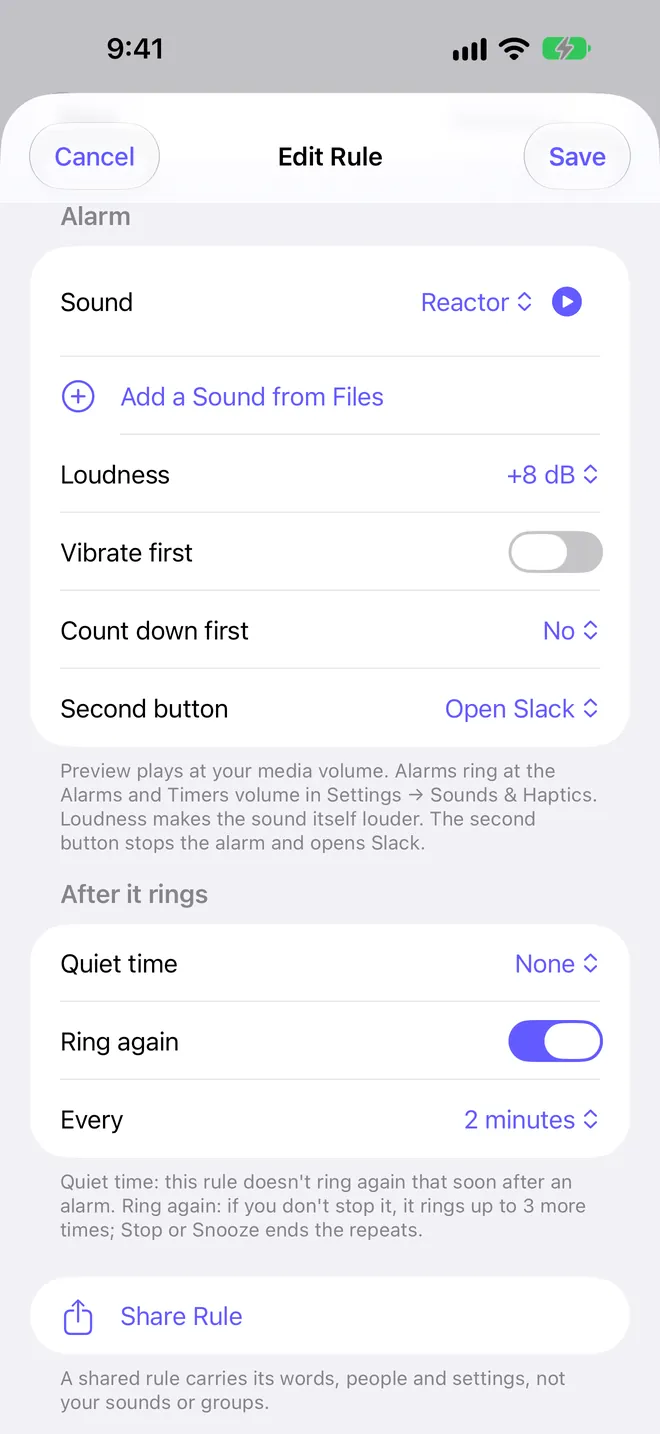
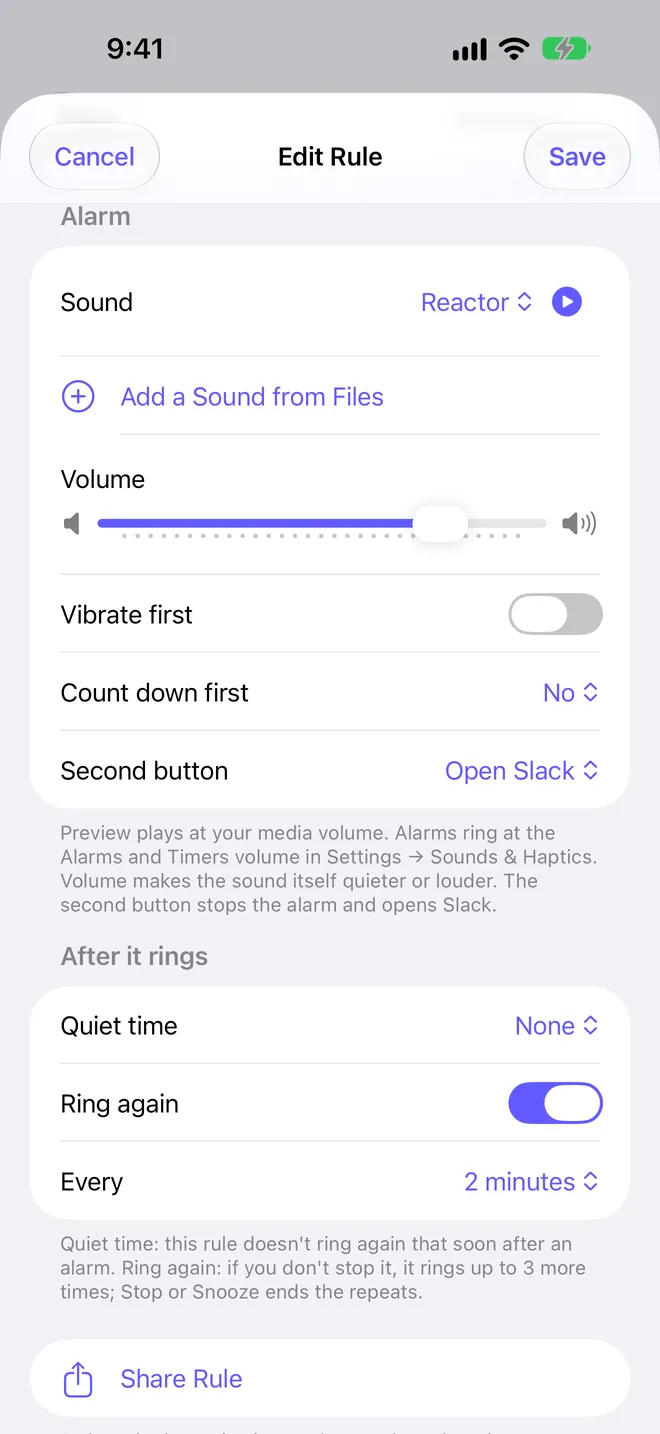
Volume bar in place of the loudness levels
Help, the home page and the rule page: each rule's sound has a Volume bar,
quieter or louder; shared rules say "6 dB louder" or "4 dB quieter", and links
from RingMeFor 1.0.1 still read. New rule alarm and Pro screenshots.

Claude-Session: https://claude.ai/code/session_014NKZs675oedrtAJAJBA9sZ

diff --git a/help.html b/help.html
@@ -127,11 +127,11 @@
     <li><strong>Never ring if it mentions:</strong> words that keep the rule quiet, like “resolved” or “test”.</li>
     <li><strong>Repeats:</strong> <strong>Only when it comes again</strong> rings only when the rule matches 2 to 10 times within the time you choose, like iOS's Repeated Calls. With <strong>From the same person</strong>, each person counts separately.</li>
     <li><strong>When</strong> (RingMeFor Pro): <strong>Only at certain times and days</strong>, such as weeknights from 22:00 to 07:00. Times follow your iPhone's clock and time zone.</li>
-    <li><strong>Alarm:</strong> the sound and <strong>Loudness</strong> (RingMeFor Pro), then three choices in every version. <strong>Vibrate first</strong> makes the alarm vibrate without a sound, then ring with its sound a minute later. <strong>Count down first</strong> waits 5, 10, 15 or 30 seconds, with a countdown and <strong>Cancel</strong> on the Lock Screen and in the Dynamic Island, so you can stop it before it rings. <strong>Second button</strong> is <strong>Snooze</strong>, or a button that stops the alarm and opens the app the message came from (or RingMeFor, for apps it can't open).</li>
+    <li><strong>Alarm:</strong> the sound and its <strong>Volume</strong> (RingMeFor Pro), then three choices in every version. <strong>Vibrate first</strong> makes the alarm vibrate without a sound, then ring with its sound a minute later. <strong>Count down first</strong> waits 5, 10, 15 or 30 seconds, with a countdown and <strong>Cancel</strong> on the Lock Screen and in the Dynamic Island, so you can stop it before it rings. <strong>Second button</strong> is <strong>Snooze</strong>, or a button that stops the alarm and opens the app the message came from (or RingMeFor, for apps it can't open).</li>
     <li><strong>After it rings:</strong> <strong>Quiet time</strong> keeps the rule from ringing again for 1, 5, 15 or 30 minutes. <strong>Ring again</strong> (RingMeFor Pro) rings up to 3 more times, every 1, 2 or 5 minutes, until you stop it.</li>
   </ul>
       <p>To check a rule, open the app's <strong>Why Didn't It Ring?</strong> and type a message under <strong>Check a message</strong>: nothing is sent or saved. To pause one rule, touch and hold it in the app's list of rules and pick how long, or <strong>Pause until a Time…</strong> to pick the date and time. <strong>Share Rule</strong>, at the bottom of an app's saved rule, makes a link to it: the link carries its words, people and settings, not your sounds or groups, and opens in RingMeFor, or on this website for someone who doesn't have it yet.</p>
-<p><strong>Sounds</strong> (RingMeFor Pro): 14 alarm sounds, <strong>Vibrate only</strong>, and sounds of your own: tap <strong>Add a Sound from Files</strong> in a rule. RingMeFor keeps the first 30 seconds, made as loud as it can be without distorting. <strong>Settings → Your Sounds</strong> plays, renames and deletes them. <strong>Loudness</strong> (+4 dB, +8 dB or +12 dB, for every sound but Standard alarm) makes the sound itself louder; the alarm still rings at the Alarms and Timers volume in <strong>Settings → Sounds &amp; Haptics</strong>. The free version rings with RingMeFor, the app's own sound.</p>
+<p><strong>Sounds</strong> (RingMeFor Pro): 14 alarm sounds, <strong>Vibrate only</strong>, and sounds of your own: tap <strong>Add a Sound from Files</strong> in a rule. RingMeFor keeps the first 30 seconds, made as loud as it can be without distorting. <strong>Settings → Your Sounds</strong> plays, renames and deletes them. <strong>Volume</strong>, a bar under the sound (for every sound but Standard alarm), makes the sound itself quieter or louder; the alarm still rings at the Alarms and Timers volume in <strong>Settings → Sounds &amp; Haptics</strong>. The free version rings with RingMeFor, the app's own sound.</p>
 <p><strong>Calendar:</strong> on Calendar's page, <strong>Use Event Details</strong> adds the event's location, notes and invitees to its alerts, read from Calendar when an alert arrives, so a rule can ring for meetings with certain people. It asks for full access to your calendars.</p>
     </section>
 
@@ -140,7 +140,7 @@
       <p>With RingMeFor Pro, a group puts apps together under a name and a colour, with rules that check every app in it: one “My manager” rule for Slack, Teams and Outlook, say. On the Home screen, tap <strong>New Group</strong> (it shows once you have two apps), name it, then pick its apps and add its rules. To put an app in a group from its own page, tap <strong>Add to a Group</strong>. An app is in one group at most; picking it for another group moves it.</p>
       <ul class="plain-list">
     <li><strong>Each app keeps its own rules.</strong> A notification from an app in a group is checked against the app's rules and the group's, and any of them can ring. Nothing in the group stops one of the app's own rules, or the other way round.</li>
-    <li><strong>One alarm, from the rule that rings hardest.</strong> When several rules match one notification, one alarm rings, with the settings of the strongest: Ring again counts most, then a sound or loudness of its own, then words or people over every notification. On a tie, the app's own rule wins.</li>
+    <li><strong>One alarm, from the rule that rings hardest.</strong> When several rules match one notification, one alarm rings, with the settings of the strongest: Ring again counts most, then a sound or volume of its own, then words or people over every notification. On a tie, the app's own rule wins.</li>
     <li><strong>A group rule counts across the group.</strong> Its quiet time and “only when it comes again” count matches from all the group's apps, and it rings one alarm at a time: the same outage posted in Slack and in Teams rings once.</li>
     <li><strong>The colour</strong> shows on the Home screen, in History and on the group's alarms on the Lock Screen and in the Dynamic Island. Tap the group's name on the Home screen to change its name, colour, apps or rules.</li>
     <li><strong>History</strong> names the group rule that rang, such as “Slack · Work: Outages”.</li>
@@ -191,7 +191,7 @@
     <li>Every app, with unlimited rules for each</li>
     <li>Times and days for a rule</li>
     <li>Ring again, until you stop it</li>
-    <li>14 alarm sounds and Vibrate only, sounds of your own, and Loudness</li>
+    <li>14 alarm sounds and Vibrate only, sounds of your own, and a Volume bar for each</li>
     <li>Groups, with rules for all their apps and a colour</li>
     <li>1,000 entries in History, instead of 300</li>
     <li>The Ring Alarm action, for shortcuts of your own</li>

diff --git a/index.html b/index.html
@@ -105,8 +105,8 @@
           <figure class="phone tour-mini"><div class="phone-edge"><div class="phone-glass"><div class="phone-screen"><img src="images/app/rule.webp" width="660" height="1434" alt="A rule called On call that rings for certain words, outage, P1, unreachable and @channel, or for messages from Nadia Brooks." loading="lazy" decoding="async"></div><span class="phone-island" aria-hidden="true"></span></div></div></figure>
         </li>
         <li>
-          <button class="tour-item" type="button" aria-pressed="false" data-shot="2"><span class="tour-ask">Choose how it rings.&nbsp;<span class="mark">Pro</span></span><span class="tour-more">A sound for each rule, Loudness, a countdown, a second button that opens the app, and ringing again if you sleep through it.</span><span class="tour-time" aria-hidden="true"></span></button>
-          <figure class="phone tour-mini"><div class="phone-edge"><div class="phone-glass"><div class="phone-screen"><img src="images/app/rule-alarm.webp" width="660" height="1434" alt="The rule's alarm settings: the Reactor sound, 8 dB louder, a second button that opens Slack, and Ring again every 2 minutes." loading="lazy" decoding="async"></div><span class="phone-island" aria-hidden="true"></span></div></div></figure>
+          <button class="tour-item" type="button" aria-pressed="false" data-shot="2"><span class="tour-ask">Choose how it rings.&nbsp;<span class="mark">Pro</span></span><span class="tour-more">A sound and volume for each rule, a countdown, a second button that opens the app, and ringing again if you sleep through it.</span><span class="tour-time" aria-hidden="true"></span></button>
+          <figure class="phone tour-mini"><div class="phone-edge"><div class="phone-glass"><div class="phone-screen"><img src="images/app/rule-alarm.webp" width="660" height="1434" alt="The rule's alarm settings: the Reactor sound, its Volume bar set a little louder, a second button that opens Slack, and Ring again every 2 minutes." loading="lazy" decoding="async"></div><span class="phone-island" aria-hidden="true"></span></div></div></figure>
         </li>
         <li>
           <button class="tour-item" type="button" aria-pressed="false" data-shot="3"><span class="tour-ask">A real alarm, even on Silent.</span><span class="tour-more">It rings like the Clock app's alarms, through Silent mode and Focus, with Snooze and slide to stop.</span><span class="tour-time" aria-hidden="true"></span></button>
@@ -118,7 +118,7 @@
         </li>
       </ol>
       </div>
-      <figure class="phone tour-phone"><div class="phone-edge"><div class="phone-glass"><div class="phone-screen"><img class="is-on" src="images/app/home.webp" width="660" height="1434" alt="RingMeFor's Home screen: On, a Work group with Slack, Microsoft Teams and Outlook, each connected and showing what it last rang for, then Gmail and Calendar." decoding="async"><img src="images/app/rule.webp" width="660" height="1434" alt="A rule called On call that rings for certain words, outage, P1, unreachable and @channel, or for messages from Nadia Brooks." loading="lazy" decoding="async"><img src="images/app/rule-alarm.webp" width="660" height="1434" alt="The rule's alarm settings: the Reactor sound, 8 dB louder, a second button that opens Slack, and Ring again every 2 minutes." loading="lazy" decoding="async"><img data-island="off" src="images/app/alarm-0648.webp" width="660" height="1434" alt="The alarm on the Lock Screen at 6:48: Slack, #on-call: Database unreachable, with Snooze and slide to stop." loading="lazy" decoding="async"><img src="images/app/history.webp" width="660" height="1434" alt="History: this week, 5 alarms from 1,748 notifications. Microsoft Teams from Alex Morgan and Slack #on-call rang, each with the rule it matched." loading="lazy" decoding="async"></div><span class="phone-island" aria-hidden="true"></span></div></div></figure>
+      <figure class="phone tour-phone"><div class="phone-edge"><div class="phone-glass"><div class="phone-screen"><img class="is-on" src="images/app/home.webp" width="660" height="1434" alt="RingMeFor's Home screen: On, a Work group with Slack, Microsoft Teams and Outlook, each connected and showing what it last rang for, then Gmail and Calendar." decoding="async"><img src="images/app/rule.webp" width="660" height="1434" alt="A rule called On call that rings for certain words, outage, P1, unreachable and @channel, or for messages from Nadia Brooks." loading="lazy" decoding="async"><img src="images/app/rule-alarm.webp" width="660" height="1434" alt="The rule's alarm settings: the Reactor sound, its Volume bar set a little louder, a second button that opens Slack, and Ring again every 2 minutes." loading="lazy" decoding="async"><img data-island="off" src="images/app/alarm-0648.webp" width="660" height="1434" alt="The alarm on the Lock Screen at 6:48: Slack, #on-call: Database unreachable, with Snooze and slide to stop." loading="lazy" decoding="async"><img src="images/app/history.webp" width="660" height="1434" alt="History: this week, 5 alarms from 1,748 notifications. Microsoft Teams from Alex Morgan and Slack #on-call rang, each with the rule it matched." loading="lazy" decoding="async"></div><span class="phone-island" aria-hidden="true"></span></div></div></figure>
     </div>
   </div>
 </section>
@@ -222,7 +222,7 @@
       <div class="plan plan-pro">
         <h3>Pro</h3>
         <p class="plan-price"><span data-config="price">$4.99</span><span class="plan-once">paid once, with no subscription</span></p>
-        <p>Every app, unlimited rules, times and days for each rule, and Ring again. 14 alarm sounds, your own sounds and Loudness. Groups of apps with rules for all of them and a colour of their own. 1,000 entries of History, and the Ring Alarm action for your own shortcuts.</p>
+        <p>Every app, unlimited rules, times and days for each rule, and Ring again. 14 alarm sounds, your own sounds and a Volume bar. Groups of apps with rules for all of them and a colour of their own. 1,000 entries of History, and the Ring Alarm action for your own shortcuts.</p>
         <a data-config="store-link" href="https://apps.apple.com/us/app/ringmefor-notification-alarm/id6828677351" class="plan-get">Get RingMeFor</a>
       </div>
     </div>

diff --git a/rulebook.js b/rulebook.js
@@ -141,15 +141,20 @@
   // Hours, Ring again and any sound but RingMeFor's own (the default) need RingMeFor Pro.
   function isPro(rule) {
     return hours(rule).enabled || !!rule.repeatUntilStopped ||
-      (!!rule.sound && rule.sound !== "signature") || (!!rule.boost && rule.boost !== "off");
+      (!!rule.sound && rule.sound !== "signature") || volume(rule) !== 0;
   }
 
-  // The app's names for its alarm sounds (AlarmSound.displayName) and Boost levels.
+  // The app's names for its alarm sounds (AlarmSound.displayName).
   var SOUNDS = { standard: "Standard alarm", signature: "RingMeFor", siren: "Hi-Lo", klaxon: "Reactor", buzzer: "Hornet",
     beep: "Bedside", pulse: "On Call", oldPhone: "Rotary", eightBit: "Arcade", rise: "Liftoff", melody: "Kalimba",
     chime: "Intercom", clean: "Boardroom", birds: "Dawn Chorus", silent: "Vibrate only" };
-  // Loudness levels in a rule link: how many decibels louder than the sound itself.
-  var LOUDNESS_DB = { loud: 4, louder: 8, loudest: 12 };
+  // A rule's volume: decibels next to the sound as it comes. Links from RingMeFor 1.0.1 have a
+  // level ("boost") instead, read here as its decibels.
+  var LEVEL_DB = { off: 0, loud: 4, louder: 8, loudest: 12 };
+  function volume(rule) {
+    if (typeof rule.volume === "number" && isFinite(rule.volume)) return Math.max(-18, Math.min(12, Math.round(rule.volume)));
+    return LEVEL_DB[rule.boost] || 0;
+  }
 
   // Which parts the sentence has. It's set by the rule as written, so emptying a part while
   // editing leaves it in place to fill again.
@@ -242,7 +247,9 @@
       html += rule.sound === "silent" ? ", with no sound, just vibration"
         : SOUNDS[rule.sound] ? ", with the " + SOUNDS[rule.sound] + " sound" : ", with a sound of its own";
     }
-    if (rule.boost && LOUDNESS_DB[rule.boost]) html += ", " + LOUDNESS_DB[rule.boost] + " dB louder";
+    var db = volume(rule);
+    if (db > 0) html += ", " + db + " dB louder";
+    if (db < 0) html += ", " + (-db) + " dB quieter";
     if (rule.repeatUntilStopped) html += ", and ring again until I stop it";
     html += ".";
     // The mark stays on the line with the sentence's last word.

diff --git a/rulebook.html b/rulebook.html
@@ -120,7 +120,7 @@
 </footer>
 <script src="rule-engine.js?v=ea0895a3" defer></script>
 <script src="qr.js?v=bccb9190" defer></script>
-<script src="rulebook.js?v=243348bf" defer></script>
+<script src="rulebook.js?v=c87437bb" defer></script>
 <script src="scroll.js?v=4484f1fb" defer></script>
 <script src="theme.js?v=ffcca006" defer></script>
 </body>

diff --git a/rule.html b/rule.html
@@ -80,7 +80,7 @@
 </footer>
 <script src="rule-engine.js?v=ea0895a3"></script>
 <script src="qr.js?v=bccb9190"></script>
-<script src="rulebook.js?v=243348bf"></script>
+<script src="rulebook.js?v=c87437bb"></script>
 <script>
 (function () {
   // The rule is the base64url JSON after "#d=", written by RuleLink.encode in the app (or by
